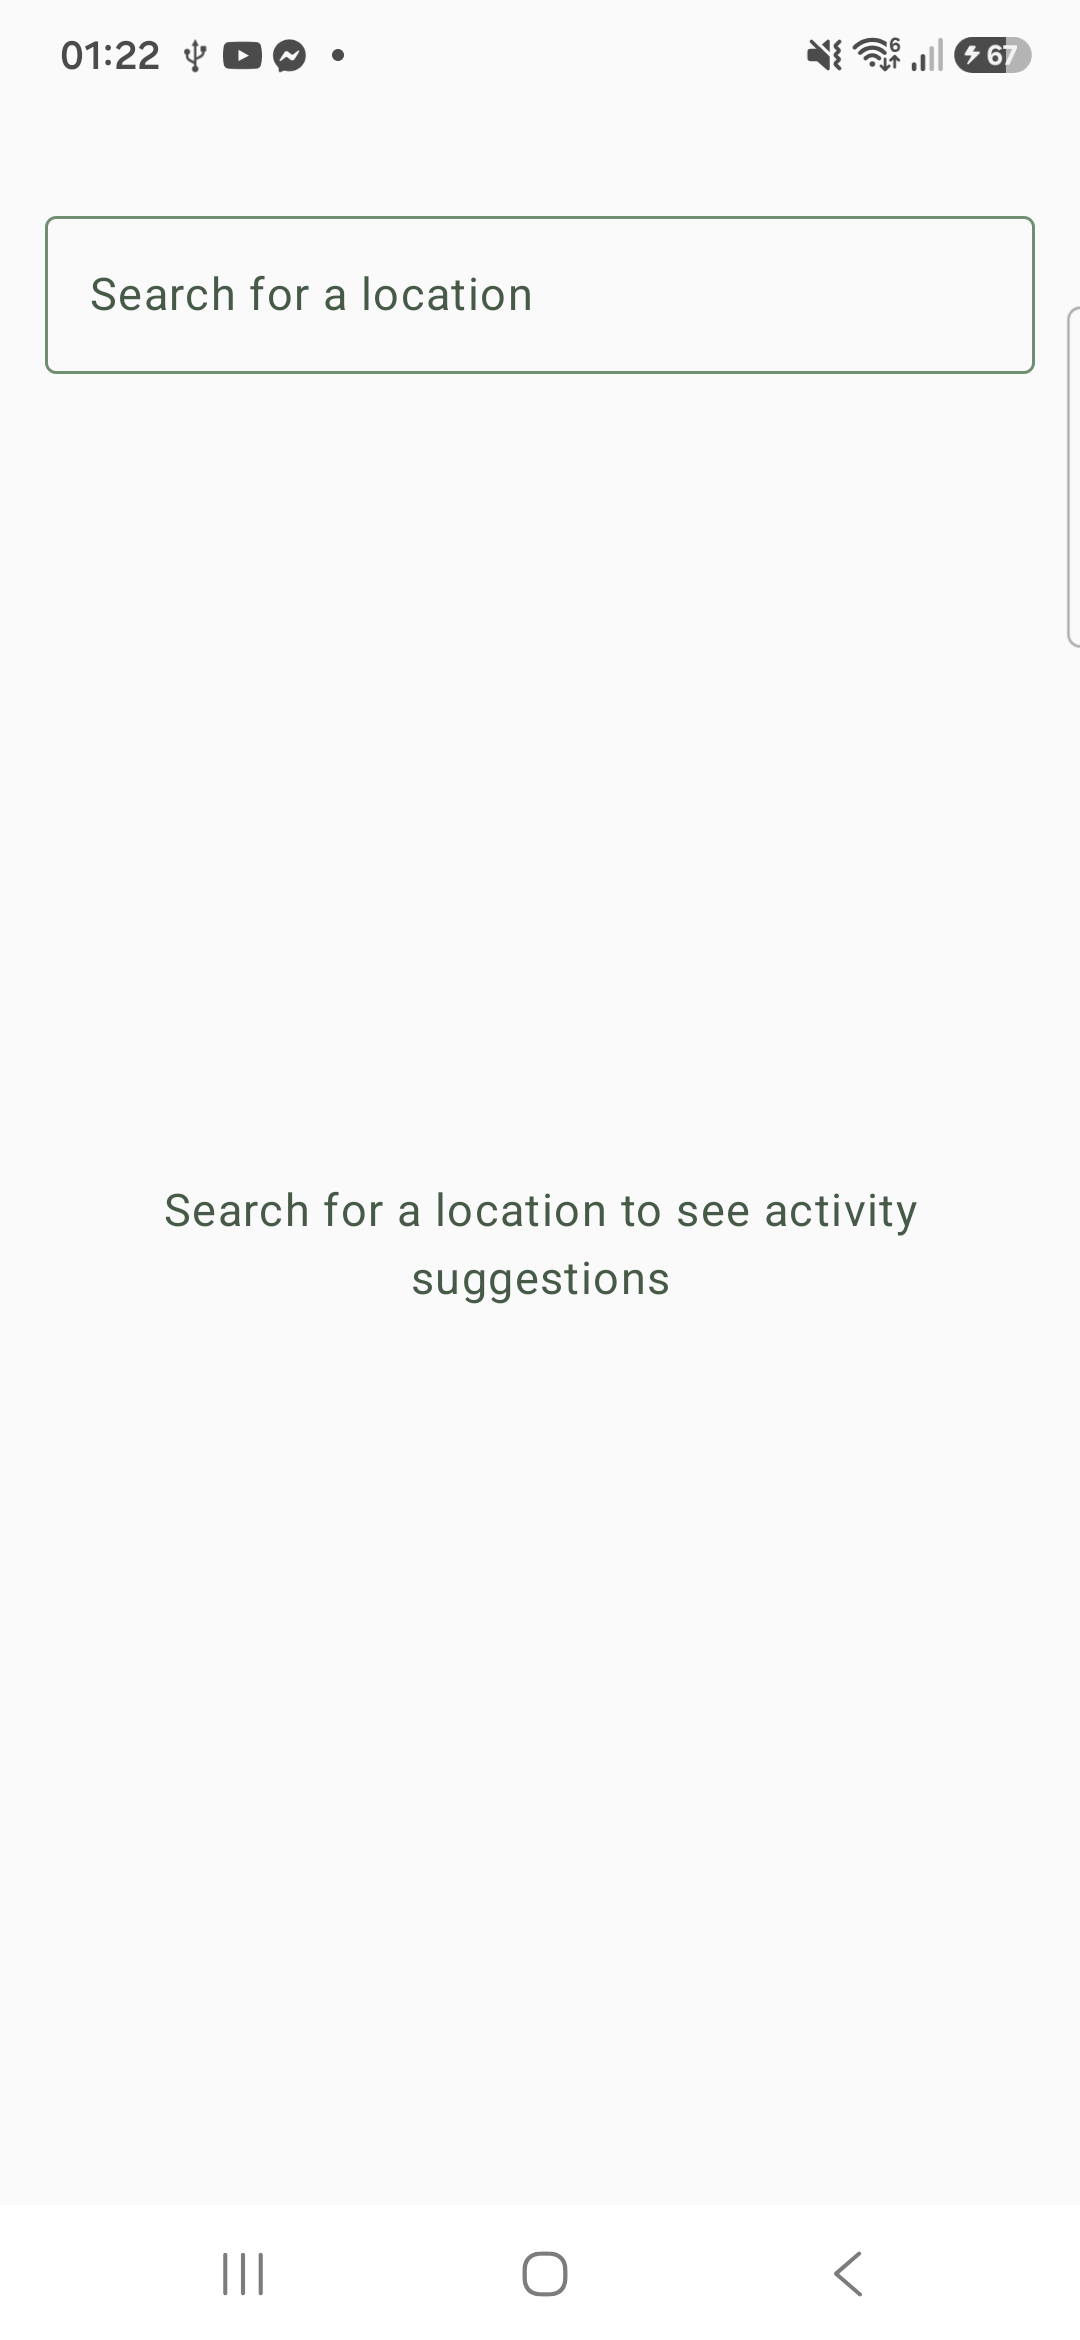
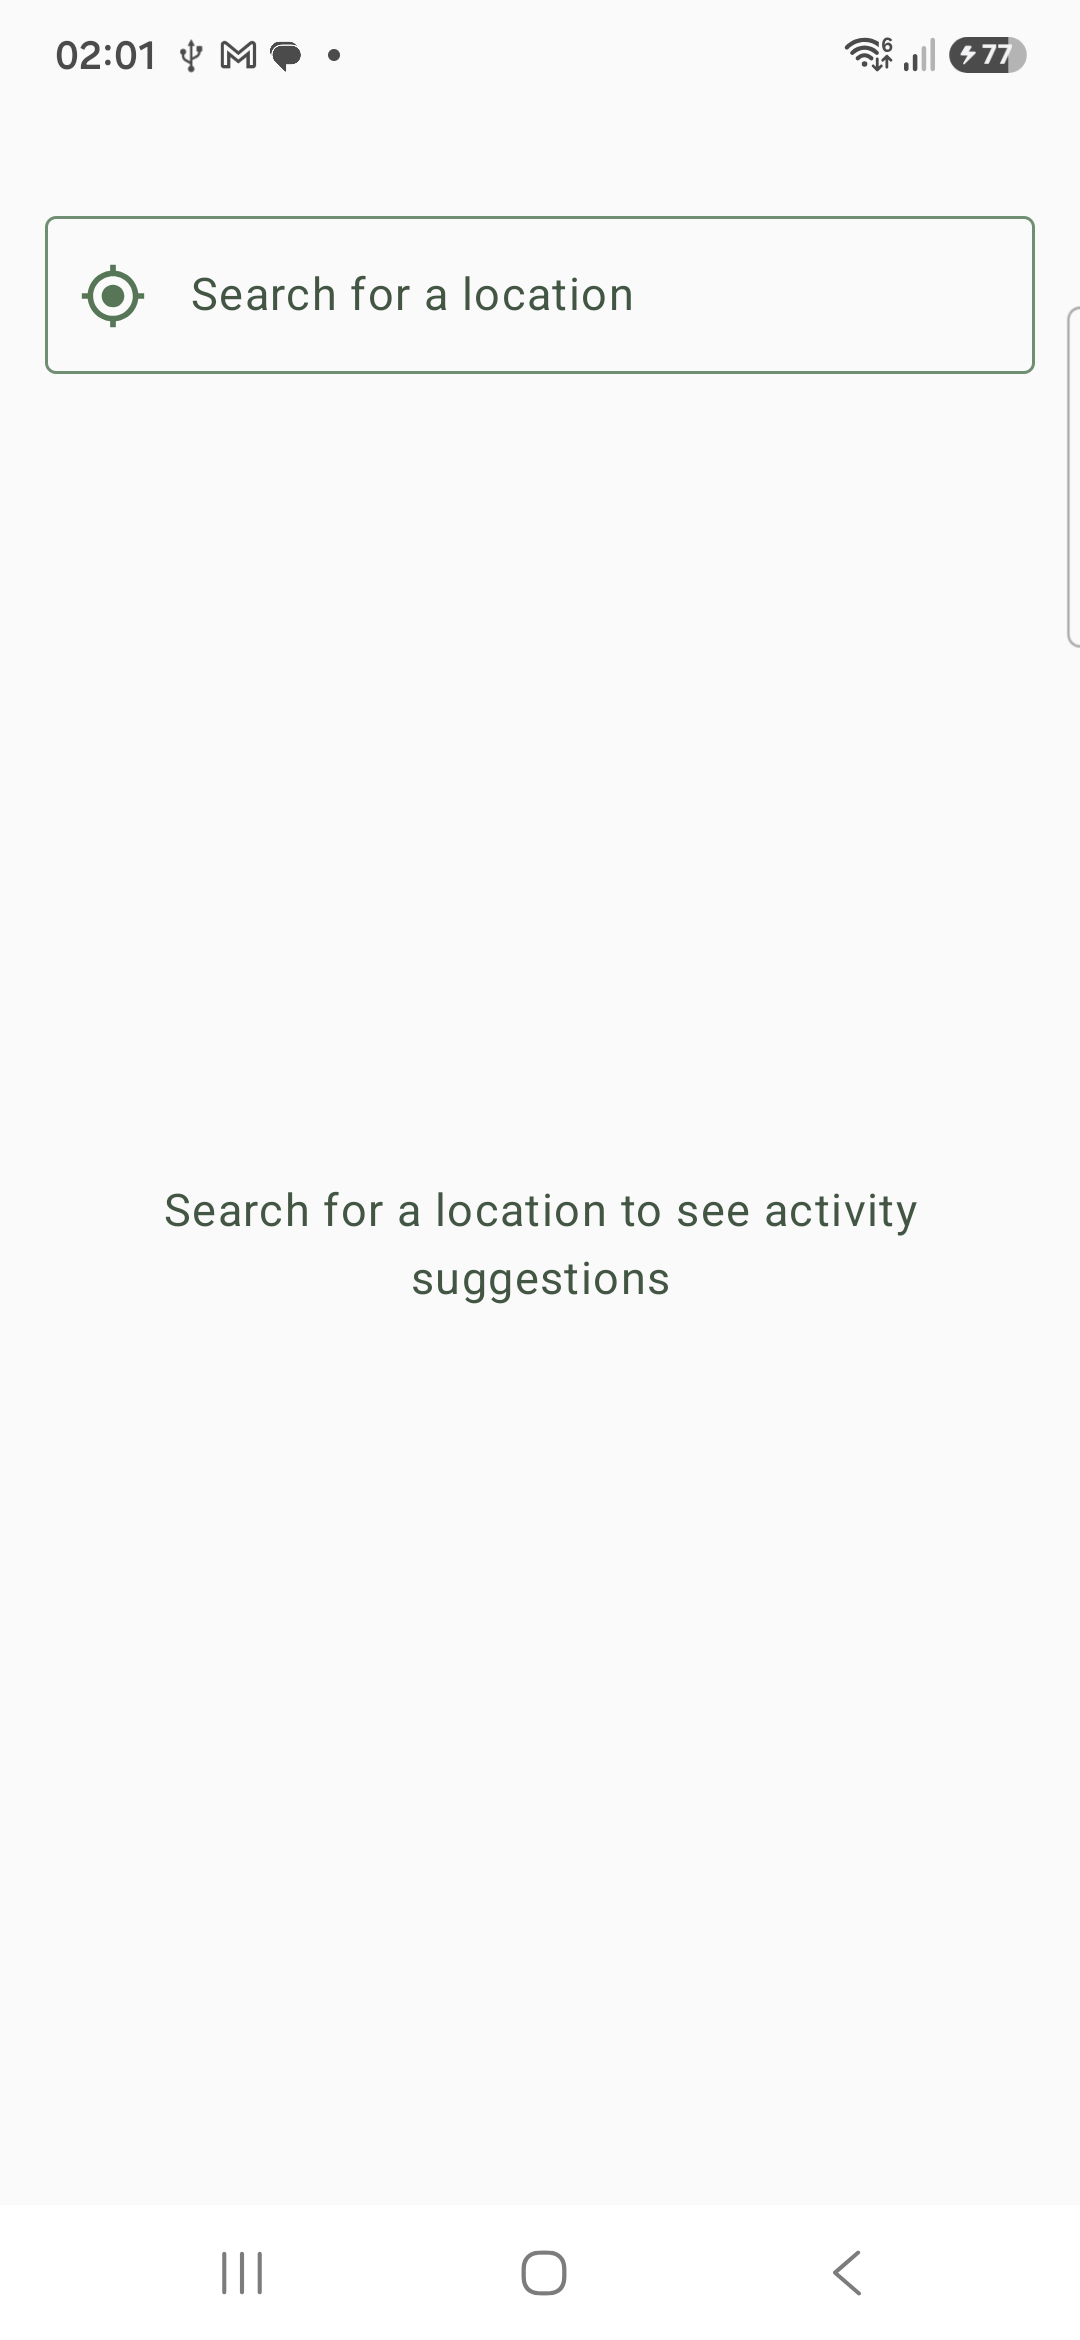
Update README

diff --git a/README.md b/README.md
@@ -1,14 +1,42 @@
 # Weather Activity Planner
 
+[![Get it on Google Play](https://img.shields.io/badge/Google_Play-live-brightgreen.svg?logo=google-play&logoColor=white)](https://play.google.com/store/apps/details?id=com.pnow.weatheractivityplanner)
 [![Tests](https://github.com/Opelpe/weather-activity-planner/actions/workflows/android-tests.yml/badge.svg)](https://github.com/Opelpe/weather-activity-planner/actions/workflows/android-tests.yml)
 [![License: MIT](https://img.shields.io/badge/license-MIT-blue.svg)](LICENSE)
 [![Min SDK 29](https://img.shields.io/badge/minSdk-29-brightgreen.svg)](https://developer.android.com/about/versions/10)
 [![Kotlin](https://img.shields.io/badge/kotlin-2.3.21-blue.svg?logo=kotlin)](https://kotlinlang.org)
 
-A native Android app that lets you search for a city and see a **ranked list of activities**
-(Skiing, Surfing, Outdoor Sightseeing, Indoor Sightseeing, Cycling, Sunbathing, Stargazing,
-Fishing) suitable for that location over the **next 7 days**, based on live weather forecast data
-from [Open-Meteo](https://open-meteo.com/).
+A native Android app that lets you search for a city (or use your current location) and see a
+**ranked list of activities** (Skiing, Surfing, Outdoor Sightseeing, Indoor Sightseeing, Cycling,
+Sunbathing, Stargazing, Fishing) suitable for that location, based on live weather forecast data
+from [Open-Meteo](https://open-meteo.com/). You can pick how many of the next 1–7 days to score,
+and the app shows the current conditions plus a day-by-day forecast breakdown with weather
+condition icons and day/night temperature indicators.
+
+**Live on Google Play** as `v1.0.0`:
+[play.google.com/store/apps/details?id=com.pnow.weatheractivityplanner](https://play.google.com/store/apps/details?id=com.pnow.weatheractivityplanner).
+Everything described below that isn't in that release (current-location search, the day-count
+selector, weather icons/day-night indicators, and Spanish/Polish localization) has landed on
+`master` since and is slated to ship as **`v1.1.0`** - see [Release Notes](#release-notes).
+
+---
+
+## Release Notes
+
+### `v1.1.0` (live on Google Play soon)
+
+- Current-location search - "use my current location" resolves the device's coordinates via Play
+  Services and reverse-geocodes them through LocationIQ.
+- Multi-day activity ranking - a 1-7 day selector controls how much of the week each activity is
+  scored over, instead of always ranking the full 7 days.
+- Weather condition icons and day/night temperature indicators on the current-weather card and the
+  7-day forecast screen.
+- Spanish (`es`) and Polish (`pl`) localization.
+
+### `v1.0.0` (live on Google Play)
+
+- Initial release: city search, 7-day activity rankings for all eight activities, current
+  conditions plus a 7-day forecast breakdown, pull-to-refresh, and offline/stale-data resilience.
 
 ---
 
@@ -40,7 +68,7 @@ from [Open-Meteo](https://open-meteo.com/).
 </table>
 
 <p align="center">
-  <video src="https://github.com/user-attachments/assets/b4a500a5-7a16-4938-ba3b-cad5265f67b1" width="360" controls></video>
+  <video src="PASTE_NEW_USER_ATTACHMENTS_URL_HERE" width="360" controls></video>
 </p>
 
 ---
@@ -49,18 +77,23 @@ from [Open-Meteo](https://open-meteo.com/).
 
 The app has three screens:
 
-1. **Location Search** - debounced search-as-you-type against the Open-Meteo Geocoding API,
-   returning up to 20 matching cities with country/region.
-2. **Activity Recommendations** - for the selected city: current weather conditions plus all
-   eight activities ranked best-to-worst for the coming week, each with a 0–100 score (shown to
-   one decimal) and a combined weekly + daily reason. Pull-to-refresh and a "stale data" snack bar
-   (with a retry action) surface when a cached forecast is shown because of a network failure or
-   lost connectivity.
-3. **7-Day Forecast** - a day-by-day breakdown of the forecast used to compute the rankings
-   (condition, temperature range, etc.), reached by tapping the current-weather card.
+1. **Location Search** - debounced search-as-you-type against the LocationIQ Autocomplete API,
+   returning up to 20 matching cities/towns/villages with country/region, plus a "use my current
+   location" action that requests location permission, prompts to enable location settings if
+   needed, and reverse-geocodes the device's coordinates via LocationIQ.
+2. **Activity Recommendations** - for the selected location: current weather conditions plus all
+   eight activities ranked best-to-worst, each with a 0–100 score (shown to one decimal) and a
+   combined weekly + daily reason. A day-count selector (1–7 days) lets the user choose how much
+   of the week to score, with a snack bar notice if the forecast doesn't cover the full selected
+   window yet. Pull-to-refresh and a "stale data" snack bar (with a retry action) surface when a
+   cached forecast is shown because of a network failure or lost connectivity.
+3. **7-Day Forecast** - a day-by-day breakdown of the **upcoming** week (tomorrow through day 7,
+   deliberately excluding today - shown separately on the current-weather card), with a condition
+   icon, day/night temperature indicators, and precipitation probability per day. Reached by
+   tapping the current-weather card.
 
 Both the recommendations and forecast screens support pull-to-refresh, retry-on-error, and
-light/dark themes.
+light/dark themes. The app is localized in English, Spanish, and Polish.
 
 ---
 
@@ -78,6 +111,7 @@ light/dark themes.
 | Networking                         | Retrofit 3 + OkHttp 5 + Moshi (kotlin codegen)                             |
 | Async                              | Kotlin Coroutines & Flow                                                   |
 | Navigation                         | Jetpack Navigation Compose with type-safe (`kotlinx.serialization`) routes |
+| Device location                    | Google Play Services Location (`FusedLocationProviderClient`)             |
 | Testing                            | JUnit4, MockK, Turbine, kotlinx-coroutines-test                            |
 
 All dependency versions are centralized in `gradle/libs.versions.toml` (version catalog) - no
@@ -94,10 +128,12 @@ hardcoded versions in module `build.gradle.kts` files.
   `ActivitiesRankingCalculator`), and `DomainError`. It has no Android, Retrofit, or Moshi imports
   - it is unit-testable on the plain JVM with zero mocking of the framework.
 - **`:data`** implements the domain repository interfaces using Retrofit/Moshi, an in-memory LRU
-  forecast cache, and a `ConnectivityManager`-backed connectivity repository. DTOs and the
-  Retrofit service interfaces are `internal` - they never leak outside this module. Mapper
-  extension functions (`toDomain()`) convert DTOs to domain models, and `toDomainError()`/
-  `toDomainResult()` convert exceptions to `DomainError`.
+  forecast cache, a `ConnectivityManager`-backed connectivity repository, and a
+  `FusedLocationProviderClient`-backed current-location repository (`LocationAvailabilityChecker`
+  checks runtime permission before requesting a fix). DTOs and the Retrofit service interfaces are
+  `internal` - they never leak outside this module. Mapper extension functions (`toDomain()`)
+  convert DTOs to domain models, and `toDomainError()`/`toDomainResult()` convert exceptions to
+  `DomainError`.
 - **`:app`** contains Compose screens, ViewModels, Hilt setup, navigation, theme, and string
   resources. It depends on `:domain` directly for models/use cases, and on `:data` only via Hilt
   bindings (it never instantiates a repository implementation directly).
@@ -154,6 +190,30 @@ out of date.
 - `ConnectivityModule` provides the Android `ConnectivityManager`, and `TimeModule` provides a
   `TimeSource` abstraction over `System.currentTimeMillis()` so the forecast cache's TTL logic is
   deterministically testable.
+- `LocationModule` binds `CurrentLocationRepository` to its Play-Services-backed implementation.
+
+### Current location
+
+`GetCurrentLocationUseCase` composes two repositories: `CurrentLocationRepository` (Play Services'
+`FusedLocationProviderClient`, gated by `LocationAvailabilityChecker.hasPermission()`) resolves
+device coordinates, then `GeocodingRepository.reverseGeocode(...)` turns them into a named
+`Location` via LocationIQ. On the UI side, `rememberRequestCurrentLocationAccess` (a Compose
+effect) requests the runtime permission if missing, then uses `LocationServices.SettingsClient` to
+prompt the user to enable location settings if they're off, before the ViewModel calls the use
+case - so permission-denied and settings-unavailable are distinct, user-facing outcomes rather
+than a generic failure.
+
+### Multi-day activity ranking
+
+`GetActivityRankingsUseCase` scores a caller-supplied window of `days` (1–7, coerced by
+`ActivityRankingDayRange`) instead of always scoring the full week: it slices the forecast's daily
+list to that window before handing it to `ActivitiesRankingCalculator`, and flags
+`ActivitiesRankingsResult.isIncomplete` when the forecast has fewer days available than requested.
+The `WeatherRecommendationUiState.selectedDayCount`
+is exposed as a `FilterChip` row (`ActivitiesRankingDaySelector`); changing it re-fetches through
+`GetActivityRankingsUseCase` with `forceRefresh = false`, so it usually resolves from the
+2-minute forecast cache rather than a fresh network call. An incomplete window surfaces a one-shot
+snack bar via the same `Channel`-based pattern used for the stale-data notice.
 
 ### Forecast caching and offline resilience
 
@@ -176,8 +236,18 @@ out of date.
 ## d. How to Build and Run the App
 
 **Prerequisites:** Android Studio (a recent version supporting AGP 9.2.1 / Kotlin 2.3.21) or a
-JDK 17 + Android SDK (compileSdk/buildTools 37) command-line setup. **No API key or config is
-required** - the Open-Meteo APIs used are free and unauthenticated.
+JDK 17 + Android SDK (compileSdk/buildTools 37) command-line setup. The Open-Meteo forecast API is
+free and unauthenticated, but location search/reverse-geocoding goes through
+[LocationIQ](https://locationiq.com/) and **does** require a free API key:
+
+1. Sign up for a free LocationIQ account and grab an access token.
+2. Add it to `local.properties` (gitignored, created if missing) at the project root:
+   ```properties
+   LOCATIONIQ_API_KEY=your_key_here
+   ```
+   `:data`'s `build.gradle.kts` reads this into `BuildConfig.LOCATIONIQ_API_KEY` at build time; if
+   it's missing, the app still builds but location search/current-location resolution will fail
+   with an HTTP error at runtime.
 
 **Via Android Studio:**
 
@@ -261,26 +331,44 @@ wrapper-jar workaround with the desired test task in place of `assembleDebug`.
 
 ## f. API Usage Notes
 
-Both Open-Meteo endpoints are called unauthenticated, over HTTPS.
+The forecast API is unauthenticated; the geocoding APIs require the LocationIQ key described in
+[section d](#d-how-to-build-and-run-the-app). Both are called over HTTPS.
 
-### Geocoding - `GET https://geocoding-api.open-meteo.com/v1/search`
+### Location search - `GET https://us1.locationiq.com/v1/autocomplete`
 
-| Query param   | Value                    |
-|---------------|--------------------------|
-| `name`        | the user's search text   |
-| `count`       | 20                       |
-| `language`    | `en`                     |
-| `format`      | `json`                   |
+| Query param        | Value                                                       |
+|---------------------|--------------------------------------------------------------|
+| `q`                 | the user's search text                                       |
+| `limit`             | 20                                                            |
+| `accept-language`   | the device's current locale language                         |
+| `tag`               | `place:city,place:town,place:village,place:state,place:country,natural:peak` |
+| `format`            | `json`                                                       |
+| `key`               | the LocationIQ API key (injected by `ApiKeyInterceptor`)     |
 
-Returns candidate cities with `id`, `name`, `latitude`, `longitude`, `country`, `country_code`,
-`admin1` (mapped to `region`).
+The `tag` filter is what keeps results to real places (and notable natural landmarks) rather than
+streets/POIs. LocationIQ returns HTTP 404 ("Unable to geocode") for zero matches - the repository
+treats that as an empty result list, not an error.
+
+### Reverse geocoding - `GET https://us1.locationiq.com/v1/reverse`
+
+| Query param        | Value                                                  |
+|---------------------|---------------------------------------------------------|
+| `lat` / `lon`       | the device's resolved coordinates                       |
+| `accept-language`   | the device's current locale language                    |
+| `format`            | `json`                                                  |
+| `key`               | the LocationIQ API key                                  |
+
+Both endpoints return `place_id`, `lat`, `lon`, `display_name`, and a structured `address` object
+(`city`/`town`/`village`/`state`/`country`); `toDomain()` prefers the first populated
+city/town/village name, falling back to the text before the first comma in `display_name`.
+`place_id` becomes the domain `Location.id` used for navigation args and the forecast cache key.
 
 ### Forecast - `GET https://api.open-meteo.com/v1/forecast`
 
 | Query param               | Value                                              |
 |---------------------------|----------------------------------------------------|
 | `latitude` / `longitude`  | from the selected location                         |
-| `forecast_days`           | 7                                                  |
+| `forecast_days`           | 16 (Open-Meteo's max; the app scores/displays a subset - see [section g](#g-activity-recommendation-logic)) |
 | `timezone`                | `auto` (resolves to the location's local timezone) |
 | `wind_speed_unit`         | `kmh`                                              |
 
@@ -310,15 +398,18 @@ interface (`Clear`, `PartlyCloudy`, `LightRain`, `HeavySnow`, `Thunderstorm`, ..
 
 ## g. Activity Recommendation Logic
 
-For each of the 8 activities, an `ActivityDayScorer` scores **each of the 7 forecast days
-independently** on a 0–100 scale (clamped), starting from a base score and applying additive
-bonuses/penalties for relevant conditions - many thresholds use a gradual `fractionBetween(...)`
-ramp (e.g. "starting to feel warm" partway to "fully warm") rather than a hard cutoff, so scores
-change smoothly across a threshold instead of jumping. The `ActivitiesRankingCalculator` then:
+For each of the 8 activities, an `ActivityDayScorer` scores **each forecast day in the selected
+1–7 day window independently** on a 0–100 scale (clamped), starting from a base score and applying
+additive bonuses/penalties for relevant conditions - many thresholds use a gradual
+`fractionBetween(...)` ramp (e.g. "starting to feel warm" partway to "fully warm") rather than a
+hard cutoff, so scores change smoothly across a threshold instead of jumping. `GetActivityRankingsUseCase`
+picks that window (today, or today plus up to 6 more days, per `selectedDayCount` - see
+[Multi-day activity ranking](#multi-day-activity-ranking)) before the `ActivitiesRankingCalculator`:
 
-1. **Weights and averages** the 7 daily scores, with **today weighted most heavily** and each
-   subsequent day weighted slightly less (linearly decreasing weights), so imminent days matter
-   more than the end of the week.
+1. **Weights and averages** the window's daily scores geometrically (`0.85^index`), with **today
+   weighted most heavily** and each subsequent day weighted less, so imminent days matter more
+   than the end of the window - this naturally degrades to a single day's score when only today is
+   selected.
 2. **Promotes** Outdoor and Indoor Sightseeing (the two "generic, always somewhat viable" fallback
    activities) by a flat `+10` bonus, clamped to 100, so a middling week doesn't unfairly bury them
    under more niche, weather-dependent activities.
